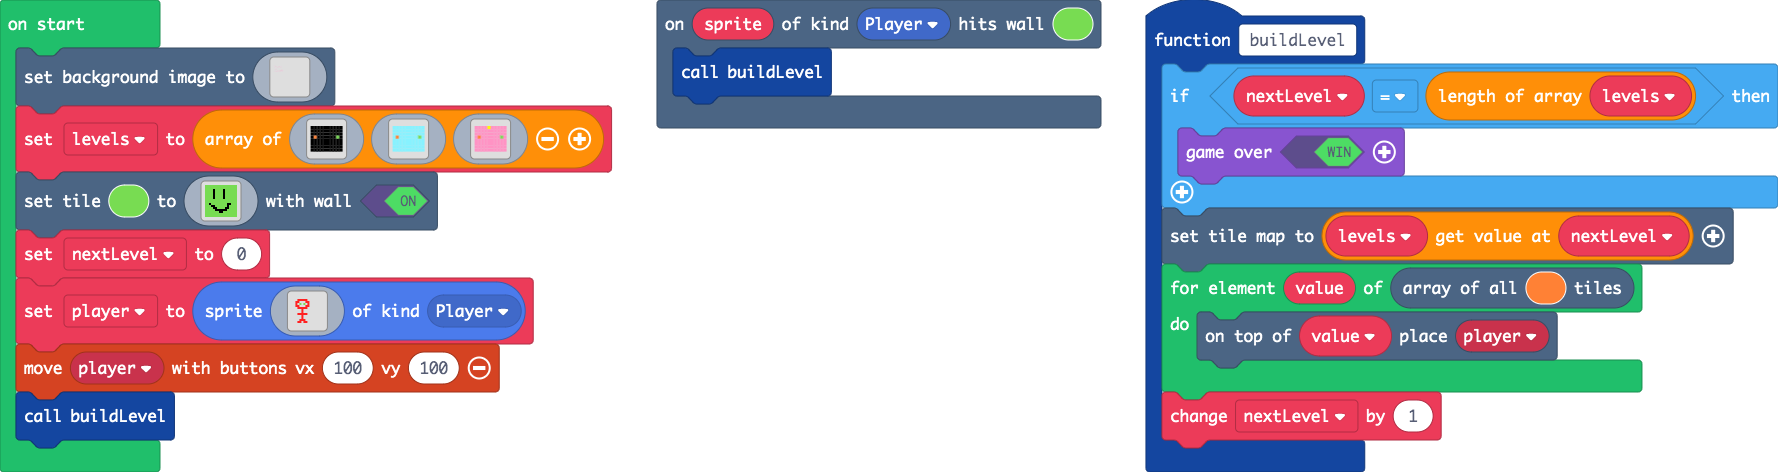
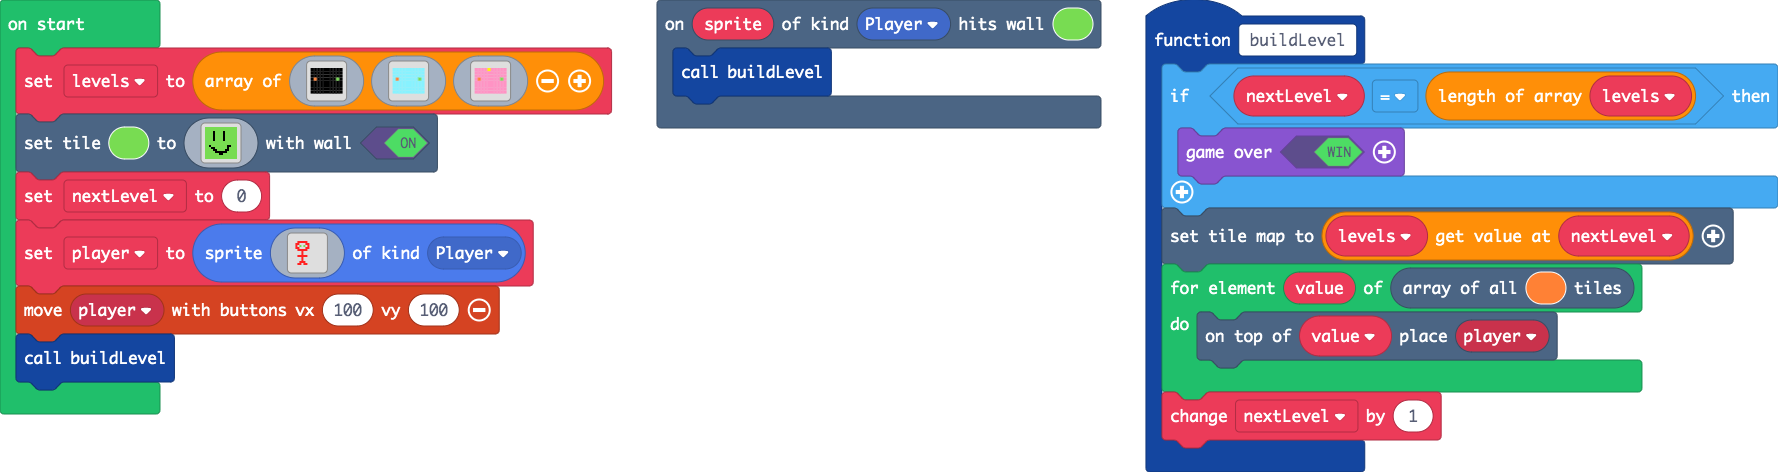
Update main.ts, main.blocks

Changed region(s): [[0.0, 0.089, 0.3712, 1.0]]

diff --git a/main.ts b/main.ts
@@ -14,128 +14,6 @@ scene.onHitTile(SpriteKind.Player, 7, function (sprite) {
 let player: Sprite = null
 let nextLevel = 0
 let levels: Image[] = []
-scene.setBackgroundImage(img`
-. . . . . . . . . . . . . . . . . . . . . . . . . . . . . . . . . . . . . . . . . . . . . . . . . . . . . . . . . . . . . . . . . . . . . . . . . . . . . . . . . . . . . . . . . . . . . . . . . . . . . . . . . . . . . . . . . . . . . . . . . . . . . . . . . . . . . . . . . . . . . . . . . . . . . . . . . . . . . . . . 
-. . . . . 3 3 . . . . . . . . . . . . . . . . . . . . . . . . . . . . . . . . . . . . . . . . . . . . . . . . . . . . . . . . . . . . . . . . . . . . . . . . . . . . . . . . . . . . . . . . . . . . . . . . . . . . . . . . . . . . . . . . . . . . . . . . . . . . . . . . . . . . . . . . . . . . . . . . . . . . . . . . . 
-. . . . 3 3 . . . . . . . . . . . . . . . . . . . . . . . . . . . . . . . . . . . . . . . . . . . . . . . . . . . . . . . . . . . . . . . . . . . . . . . . . . . . . . . . . . . . . . . . . . . . . . . . . . . . . . . . . . . . . . . . . . . . . . . . . . . . . . . . . . . . . . . . . . . . . . . . . . . . . . . . . . 
-. . . 3 3 . . . . . . . . . . . . . . . . . . . . . . . . . . . . . . . . . . . . . . . . . . . . . . . . . . . . . . . . . . . . . . . . . . . . . . . . . . . . . . . . . . . . . . . . . . . . . . . . . . . . . . . . . . . . . . . . . . . . . . . . . . . . . . . . . . . . . . . . . . . . . . . . . . . . . . . . . . . 
-. . 3 3 . . . . . . . . . . . . . . . . . . . . . . . . . . . . . . . 3 . . . . . . . . . . . . . . . . . . . . . . . . . . . . . . . . . . . . . . . . . . . . . . . . . . . . . . . . . . . . . . . . . . . . . . . . . . . . . . . . . . . . . . . . . . . . . . . . . . . . . . . . . . . . . . . . . . . . . . . . . . . . 
-. . . 3 3 3 . . 3 . . . . . 3 3 3 3 . . . . . . . 3 3 3 3 3 3 . . . 3 3 3 . . . . . . . . . . . . . . . . . . . . . . . . . . . . . . . . . . . . . . . . . . . . . . . . . . . . . . . . . . . . . . . . . . . . . . . . . . . . . . . . . . . . . . . . . . . . . . . . . . . . . . . . . . . . . . . . . . . . . . . . . . . 
-. . . . . 3 3 . 3 . . . . 3 3 . . . . . . . . . . 3 . . . . 3 . . . 3 . 3 . . . . . . . . . . . . . . . . . . . . . . . . . . . . . . . . . . . . . . . . . . . . . . . . . . . . . . . . . . . . . . . . . . . . . . . . . . . . . . . . . . . . . . . . . . . . . . . . . . . . . . . . . . . . . . . . . . . . . . . . . . . 
-. . . . . . 3 . 3 . . . . 3 . . . . . . . . 3 . . 3 . . . 3 . . . . 3 . 3 . . . . . . . . . . . . . . . . . . . . . . . . . . . . . . . . . . . . . . . . . . . . . . . . . . . . . . . . . . . . . . . . . . . . . . . . . . . . . . . . . . . . . . . . . . . . . . . . . . . . . . . . . . . . . . . . . . . . . . . . . . . 
-. . . . . . 3 . . 3 . . . 3 . . . . . . . . 3 . . 3 3 3 3 . . . . . 3 3 3 . . . . . . . . . . . . . . . . . . . . . . . . . . . . . . . . . . . . . . . . . . . . . . . . . . . . . . . . . . . . . . . . . . . . . . . . . . . . . . . . . . . . . . . . . . . . . . . . . . . . . . . . . . . . . . . . . . . . . . . . . . . 
-. . . . . 3 3 . . 3 . . . 3 3 . . . . . . . 3 . 3 3 3 3 3 . . . . . 3 . 3 . . . . . . . . . . . . . . . . . . . . . . . . . . . . . . . . . . . . . . . . . . . . . . . . . . . . . . . . . . . . . . . . . . . . . . . . . . . . . . . . . . . . . . . . . . . . . . . . . . . . . . . . . . . . . . . . . . . . . . . . . . . 
-. . . . 3 3 . . . 3 . . . . . 3 3 3 3 3 . . 3 . . 3 . . . 3 3 . . . 3 . 3 . . . . . . . . . . . . . . . . . . . . . . . . . . . . . . . . . . . . . . . . . . . . . . . . . . . . . . . . . . . . . . . . . . . . . . . . . . . . . . . . . . . . . . . . . . . . . . . . . . . . . . . . . . . . . . . . . . . . . . . . . . . 
-. 3 3 3 . . . . . 3 . . . . . . . . . 3 . . 3 . . 3 . . . . 3 3 . . 3 . 3 . . . . . . . . . . . . . . . . . . . . . . . . . . . . . . . . . . . . . . . . . . . . . . . . . . . . . . . . . . . . . . . . . . . . . . . . . . . . . . . . . . . . . . . . . . . . . . . . . . . . . . . . . . . . . . . . . . . . . . . . . . . 
-. . . . . . . . . 3 . . . . 3 3 3 3 3 . . . 3 . . 3 . . . . . 3 . . . . . 3 . . . . . . . . . . . . . . . . . . . . . . . . . . . . . . . . . . . . . . . . . . . . . . . . . . . . . . . . . . . . . . . . . . . . . . . . . . . . . . . . . . . . . . . . . . . . . . . . . . . . . . . . . . . . . . . . . . . . . . . . . . 
-. . . . . . . . . 3 . . . . 3 . . . . . . . . 3 . 3 . . . . . . 3 . . . . . . . . . . . . . . . . . . . . . . . . . . . . . . . . . . . . . . . . . . . . . . . . . . . . . . . . . . . . . . . . . . . . . . . . . . . . . . . . . . . . . . . . . . . . . . . . . . . . . . . . . . . . . . . . . . . . . . . . . . . . . . . 
-. . . . . . . . . . 3 . . . . . . . . . . . . 3 . . . . . . . . . . . . . . . . . . . . . . . . . . . . . . . . . . . . . . . . . . . . . . . . . . . . . . . . . . . . . . . . . . . . . . . . . . . . . . . . . . . . . . . . . . . . . . . . . . . . . . . . . . . . . . . . . . . . . . . . . . . . . . . . . . . . . . . . 
-. . . . . . . . . . 3 . . . . . . . . . . . . 3 . . . . . . . . . . . . . . . . . . . . . . . . . . . . . . . . . . . . . . . . . . . . . . . . . . . . . . . . . . . . . . . . . . . . . . . . . . . . . . . . . . . . . . . . . . . . . . . . . . . . . . . . . . . . . . . . . . . . . . . . . . . . . . . . . . . . . . . . 
-. . . . . . . . . . . . . . . . . . . . . . . . . . . . . . . . . . . . . . . . . . . . . . . . . . . . . . . . . . . . . . . . . . . . . . . . . . . . . . . . . . . . . . . . . . . . . . . . . . . . . . . . . . . . . . . . . . . . . . . . . . . . . . . . . . . . . . . . . . . . . . . . . . . . . . . . . . . . . . . . 
-. . . . . . . . . . . . . . . . . . . . . . . . . . . . . . . . . . . . . . . . . . . . . . . . . . . . . . . . . . . . . . . . . . . . . . . . . . . . . . . . . . . . . . . . . . . . . . . . . . . . . . . . . . . . . . . . . . . . . . . . . . . . . . . . . . . . . . . . . . . . . . . . . . . . . . . . . . . . . . . . 
-. . . . . 3 . . . 3 3 3 . . . . . . . . . . . . . . . . . . . . . . . . . . . . . . . . . . . . . . . . . . . . . . . . . . . . . . . . . . . . . . . . . . . . . . . . . . . . . . . . . . . . . . . . . . . . . . . . . . . . . . . . . . . . . . . . . . . . . . . . . . . . . . . . . . . . . . . . . . . . . . . . . . . . 
-. . . . . 3 . . . 3 . . . . . . . . . . . . . . . . . . . . . . . . . . . . . . . . . . . . . . . . . . . . . . . . . . . . . . . . . . . . . . . . . . . . . . . . . . . . . . . . . . . . . . . . . . . . . . . . . . . . . . . . . . . . . . . . . . . . . . . . . . . . . . . . . . . . . . . . . . . . . . . . . . . . . . 
-. . 4 . . 3 3 . . 3 3 3 3 . . . . . . . . . . . . . . . 7 . . . . . . . . . . . 3 . . . . . . . . . . . . . . . . . . . . . . . . . . . . . . . . . . . . . . . . . . . . . . . . . . . . . . . . . . . . . . . . . . . . . . . . . . . . . . . . . . . . . . . . . . . . . . . . . . . . . . . . . . . . . . . . . . . . . . . 
-. . . . . . 3 . . . . . 3 3 . . . . . . . . . . . . . . . . . . . . . . . . . . 3 3 . . . . . . . . . . . . . . . . . . . . . . . . . . . . . . . . . . . . . . . . . . . . . . . . . . . . . . . . . . . . . . . . . . . . . . . . . . . . . . . . . . . . . . . . . . . . . . . . . . . . . . . . . . . . . . . . . . . . . . 
-. . . . . . 3 . . . . . . 3 . . . . . . . . . . . . . . . . . . . . . . . . . 3 . 3 . . . . . . . . . . . . . . . . . . . . . . . . . . . . . . . . . . . . . . . . . . . . . . . . . . . . . . . . . . . . . . . . . . . . . . . . . . . . . . . . . . . . . . . . . . . . . . . . . . . . . . . . . . . . . . . . . . . . . . 
-. . . . . . 3 . . . . . . 3 . . . . . . . . . . . . . . . . . . . . . . 3 3 . 3 . 3 . . . . . . . . . . . . . . . . . . . . . . . . . . . . . . . . . . . . . . . . . . . . . . . . . . . . . . . . . . . . . . . . . . . . . . . . . . . . . . . . . . . . . . . . . . . . . . . . . . . . . . . . . . . . . . . . . . . . . . 
-. . . . . . . . . 3 3 3 3 3 . . . . . . . . . . . . . . . . . . . . . . 3 3 . 3 . 3 . . . . . . . . . . . . . . . . . . . . . . . . . . . . . . . . . . . . . . . . . . . . . . . . . . . . . . . . . . . . . . . . . . . . . . . . . . . . . . . . . . . . . . . . . . . . . . . . . . . . . . . . . . . . . . . . . . . . . . 
-. . . . . . . . . . . . . . . . . . . . . . . . . . . . . . . . . . . . 3 3 . 3 . 3 . . 3 3 3 3 . . . . . . . . . . . . . . . . . . . . . . . . . . . . . . . . . . . . . . . . . . . . . . . . . . . . . . . . . . . . . . . . . . . . . . . . . . . . . . . . . . . . . . . . . . . . . . . . . . . . . . . . . . . . . . . . 
-. . . . . . . . . . . . . . . . . . 3 . . . . . . . . . 3 3 3 3 . . . . 3 3 . 3 . 3 . 3 . . . . . . . . . . . . . . . . . . . . . . . . . . . . . . . . . . . . . . . . . . . . . . . . . . . . . . . . . . . . . . . . . . . . . . . . . . . . . . . . . . . . . . . . . . . . . . . . . . . . . . . . . . . . . . . . . . . . 
-. . . . . . . . . . . . . . . . . 3 3 . . . . . . . . . 3 . . . 3 3 3 . 3 . 3 3 . 3 . 3 . 3 3 . . . . . . . . . . . . . . . . . . . . . . . . . . . . . . . . . . . . . . . . . . . . . . . . . . . . . . . . . . . . . . . . . . . . . . . . . . . . . . . . . . . . . . . . . . . . . . . . . . . . . . . . . . . . . . . . . 
-. . . . 3 3 3 3 . . . . . . . . . 3 . 3 3 3 3 3 3 3 . 3 3 . . . 3 3 3 3 3 . 3 3 . 3 . 3 . . . . . . . . . . . . . . . . . . . . . . . . . . . . . . . . . . . . . . . . . . . . . . . . . . . . . . . . . . . . . . . . . . . . . . . . . . . . . . . . . . . . . . . . . . . . . . . . . . . . . . . . . . . . . . . . . . . . 
-. . . . 3 . . . 3 . . 3 . . . . 3 . . 3 . . . . . . . 3 3 . . . 3 3 3 3 3 . 3 3 . 3 . 3 3 3 3 . . . . . . . . . . . . . . . . . . . . . . . . . . . . . . . . . . . . . . . . . . . . . . . . . . . . . . . . . . . . . . . . . . . . . . . . . . . . . . . . . . . . . . . . . . . . . . . . . . . . . . . . . . . . . . . . . 
-. . . 3 3 3 3 3 3 3 . 3 . 3 3 . 3 . 3 . . 3 3 3 3 . . . . 3 3 3 . 3 . 3 3 . . . . 3 . . . . . . . . . . . . . . . . . . . . . . . . . . . . . . . . . . . . . . . . . . . . . . . . . . . . . . . . . . . . . . . . . . . . . . . . . . . . . . . . . . . . . . . . . . . . . . . . . . . . . . . . . . . . . . . . . . . . . . 
-. . . 3 . . . . . 3 . 3 . 3 3 3 . . 3 . . . . . . . . . . . 3 3 . . . 3 3 . . . . . 3 . . . . . . . . . . . . . . . . . . . . . . . . . . . . . . . . . . . . . . . . . . . . . . . . . . . . . . . . . . . . . . . . . . . . . . . . . . . . . . . . . . . . . . . . . . . . . . . . . . . . . . . . . . . . . . . . . . . . . 
-. . . 3 . . . . . 3 . 3 3 . 3 3 . 3 3 3 3 3 . . . . 3 3 3 3 . 3 . . . 3 3 . . . . . 3 . . . . . . . . . . . . . . . . . . . . . . . . . . . . . . . . . . . . . . . . . . . . . . . . . . . . . . . . . . . . . . . . . . . . . . . . . . . . . . . . . . . . . . . . . . . . . . . . . . . . . . . . . . . . . . . . . . . . . 
-. . . . . . . . . 3 . . 3 . . . . 3 . . . . . . . . . . . . . 3 . . 3 3 . . . . . . 3 3 . . . . . . . . . . . . . . . . . . . . . . . . . . . . . . . . . . . . . . . . . . . . . . . . . . . . . . . . . . . . . . . . . . . . . . . . . . . . . . . . . . . . . . . . . . . . . . . . . . . . . . . . . . . . . . . . . . . . 
-. . . . . . . . . 3 . . . . . . . . . . . . . . . . . . . . . 3 3 3 3 . . . . . . . . . . . . . . . . . . . . . . . . . . . . . . . . . . . . . . . . . . . . . . . . . . . . . . . . . . . . . . . . . . . . . . . . . . . . . . . . . . . . . . . . . . . . . . . . . . . . . . . . . . . . . . . . . . . . . . . . . . . . . 
-. . . . . . . . . . . . . . . . . . . . . . . . . . . . . . . . . . . . . . . . . . . . . . . . . . . . . . . . . . . . . . . . . . . . . . . . . . . . . . . . . . . . . . . . . . . . . . . . . . . . . . . . . . . . . . . . . . . . . . . . . . . . . . . . . . . . . . . . . . . . . . . . . . . . . . . . . . . . . . . . 
-. . . . . . . . . . . . . . . . . . . . . . . . . . . . . . . . . . . . . . . . . . . . . . . . . . . . . . . . . . . . . . . . . . . . . . . . . . . . . . . . . . . . . . . . . . . . . . . . . . . . . . . . . . . . . . . . . . . . . . . . . . . . . . . . . . . . . . . . . . . . . . . . . . . . . . . . . . . . . . . . 
-. . . . . . . . . . . . . . . . . . . . . . . . . . . . . . . . . . . . . . . . . . . . . . . . . . . . . . . . . . . . . . . . . . . . . . . . . . . . . . . . . . . . . . . . . . . . . . . . . . . . . . . . . . . . . . . . . . . . . . . . . . . . . . . . . . . . . . . . . . . . . . . . . . . . . . . . . . . . . . . . 
-. . . . . . . . . . . . . . . . . . . . . . . . . . . . . . . . . . . . . . . . . . . . . . . . . . . . . . . . . . . . . . . . . . . . . . . . . . . . . . . . . . . . . . . . . . . . . . . . . . . . . . . . . . . . . . . . . . . . . . . . . . . . . . . . . . . . . . . . . . . . . . . . . . . . . . . . . . . . . . . . 
-. . . . . . . . . . . . . . . . . . . . . . . . . . . . . . . . . . . . . . . . . . . . . . . . . . . . . . . . . . . . . . . . . . . . . . . . . . . . . . . . . . . . . . . . . . . . . . . . . . . . . . . . . . . . . . . . . . . . . . . . . . . . . . . . . . . . . . . . . . . . . . . . . . . . . . . . . . . . . . . . 
-. . . . . . . . . . . . . . . . . . . . . . . . . . . . . . . . . . . . . . . . . . . . . . . . . . . . . . . . . . . . . . . . . . . . . . . . . . . . . . . . . . . . . . . . . . . . . . . . . . . . . . . . . . . . . . . . . . . . . . . . . . . . . . . . . . . . . . . . . . . . . . . . . . . . . . . . . . . . . . . . 
-. . . . . . . . . . . . . . . . . . . . . . . . . . . . . . . . . . . . . . . . . . . . . . . . . . . . . . . . . . . . . . . . . . . . . . . . . . . . . . . . . . . . . . . . . . . . . . . . . . . . . . . . . . . . . . . . . . . . . . . . . . . . . . . . . . . . . . . . . . . . . . . . . . . . . . . . . . . . . . . . 
-. . . . . . . . . . . . . . . . . . . . . . . . . . . . . . . . . . . . . . . . . . . . . . . . . . . . . . . . . . . . . . . . . . . . . . . . . . . . . . . . . . . . . . . . . . . . . . . . . . . . . . . . . . . . . . . . . . . . . . . . . . . . . . . . . . . . . . . . . . . . . . . . . . . . . . . . . . . . . . . . 
-. . . . . . . . . . . . . . . . . . . . . . . . . . . . . . . . . . . . . . . . . . . . . . . . . . . . . . . . . . . . . . . . . . . . . . . . . . . . . . . . . . . . . . . . . . . . . . . . . . . . . . . . . . . . . . . . . . . . . . . . . . . . . . . . . . . . . . . . . . . . . . . . . . . . . . . . . . . . . . . . 
-. . . . . . . . . . . . . . . . . . . . . . . . . . . . . . . . . . . . . . . . . . . . . . . . . . . . . . . . . . . . . . . . . . . . . . . . . . . . . . . . . . . . . . . . . . . . . . . . . . . . . . . . . . . . . . . . . . . . . . . . . . . . . . . . . . . . . . . . . . . . . . . . . . . . . . . . . . . . . . . . 
-. . . . . . . . . . . . . . . . . . . . . . . . . . . . . . . . . . . . . . . . . . . . . . . . . . . . . . . . . . . . . . . . . . . . . . . . . . . . . . . . . . . . . . . . . . . . . . . . . . . . . . . . . . . . . . . . . . . . . . . . . . . . . . . . . . . . . . . . . . . . . . . . . . . . . . . . . . . . . . . . 
-. . . . . . . . . . . . . . . . . . . . . . . . . . . . . . . . . . . . . . . . . . . . . . . . . . . . . . . . . . . . . . . . . . . . . . . . . . . . . . . . . . . . . . . . . . . . . . . . . . . . . . . . . . . . . . . . . . . . . . . . . . . . . . . . . . . . . . . . . . . . . . . . . . . . . . . . . . . . . . . . 
-. . . . . . . . . . . . . . . . . . . . . . . . . . . . . . . . . . . . . . . . . . . . . . . . . . . . . . . . . . . . . . . . . . . . . . . . . . . . . . . . . . . . . . . . . . . . . . . . . . . . . . . . . . . . . . . . . . . . . . . . . . . . . . . . . . . . . . . . . . . . . . . . . . . . . . . . . . . . . . . . 
-. . . . . . . . . . . . . . . . . . . . . . . . . . . . . . . . . . . . . . . . . . . . . . . . . . . . . . . . . . . . . . . . . . . . . . . . . . . . . . . . . . . . . . . . . . . . . . . . . . . . . . . . . . . . . . . . . . . . . . . . . . . . . . . . . . . . . . . . . . . . . . . . . . . . . . . . . . . . . . . . 
-. . . . . . . . . . . . . . . . . . . . . . . . . . . . . . . . . . . . . . . . . . . . . . . . . . . . . . . . . . . . . . . . . . . . . . . . . . . . . . . . . . . . . . . . . . . . . . . . . . . . . . . . . . . . . . . . . . . . . . . . . . . . . . . . . . . . . . . . . . . . . . . . . . . . . . . . . . . . . . . . 
-. . . . . . . . . . . . . . . . . . . . . . . . . . . . . . . . . . . . . . . . . . . . . . . . . . . . . . . . . . . . . . . . . . . . . . . . . . . . . . . . . . . . . . . . . . . . . . . . . . . . . . . . . . . . . . . . . . . . . . . . . . . . . . . . . . . . . . . . . . . . . . . . . . . . . . . . . . . . . . . . 
-. . . . . . . . . . . . . . . . . . . . . . . . . . . . . . . . . . . . . . . . . . . . . . . . . . . . . . . . . . . . . . . . . . . . . . . . . . . . . . . . . . . . . . . . . . . . . . . . . . . . . . . . . . . . . . . . . . . . . . . . . . . . . . . . . . . . . . . . . . . . . . . . . . . . . . . . . . . . . . . . 
-. . . . . . . . . . . . . . . . . . . . . . . . . . . . . . . . . . . . . . . . . . . . . . . . . . . . . . . . . . . . . . . . . . . . . . . . . . . . . . . . . . . . . . . . . . . . . . . . . . . . . . . . . . . . . . . . . . . . . . . . . . . . . . . . . . . . . . . . . . . . . . . . . . . . . . . . . . . . . . . . 
-. . . . . . . . . . . . . . . . . . . . . . . . . . . . . . . . . . . . . . . . . . . . . . . . . . . . . . . . . . . . . . . . . . . . . . . . . . . . . . . . . . . . . . . . . . . . . . . . . . . . . . . . . . . . . . . . . . . . . . . . . . . . . . . . . . . . . . . . . . . . . . . . . . . . . . . . . . . . . . . . 
-. . . . . . . . . . . . . . . . . . . . . . . . . . . . . . . . . . . . . . . . . . . . . . . . . . . . . . . . . . . . . . . . . . . . . . . . . . . . . . . . . . . . . . . . . . . . . . . . . . . . . . . . . . . . . . . . . . . . . . . . . . . . . . . . . . . . . . . . . . . . . . . . . . . . . . . . . . . . . . . . 
-. . . . . . . . . . . . . . . . . . . . . . . . . . . . . . . . . . . . . . . . . . . . . . . . . . . . . . . . . . . . . . . . . . . . . . . . . . . . . . . . . . . . . . . . . . . . . . . . . . . . . . . . . . . . . . . . . . . . . . . . . . . . . . . . . . . . . . . . . . . . . . . . . . . . . . . . . . . . . . . . 
-. . . . . . . . . . . . . . . . . . . . . . . . . . . . . . . . . . . . . . . . . . . . . . . . . . . . . . . . . . . . . . . . . . . . . . . . . . . . . . . . . . . . . . . . . . . . . . . . . . . . . . . . . . . . . . . . . . . . . . . . . . . . . . . . . . . . . . . . . . . . . . . . . . . . . . . . . . . . . . . . 
-. . . . . . . . . . . . . . . . . . . . . . . . . . . . . . . . . . . . . . . . . . . . . . . . . . . . . . . . . . . . . . . . . . . . . . . . . . . . . . . . . . . . . . . . . . . . . . . . . . . . . . . . . . . . . . . . . . . . . . . . . . . . . . . . . . . . . . . . . . . . . . . . . . . . . . . . . . . . . . . . 
-. . . . . . . . . . . . . . . . . . . . . . . . . . . . . . . . . . . . . . . . . . . . . . . . . . . . . . . . . . . . . . . . . . . . . . . . . . . . . . . . . . . . . . . . . . . . . . . . . . . . . . . . . . . . . . . . . . . . . . . . . . . . . . . . . . . . . . . . . . . . . . . . . . . . . . . . . . . . . . . . 
-. . . . . . . . . . . . . . . . . . . . . . . . . . . . . . . . . . . . . . . . . . . . . . . . . . . . . . . . . . . . . . . . . . . . . . . . . . . . . . . . . . . . . . . . . . . . . . . . . . . . . . . . . . . . . . . . . . . . . . . . . . . . . . . . . . . . . . . . . . . . . . . . . . . . . . . . . . . . . . . . 
-. . . . . . . . . . . . . . . . . . . . . . . . . . . . . . . . . . . . . . . . . . . . . . . . . . . . . . . . . . . . . . . . . . . . . . . . . . . . . . . . . . . . . . . . . . . . . . . . . . . . . . . . . . . . . . . . . . . . . . . . . . . . . . . . . . . . . . . . . . . . . . . . . . . . . . . . . . . . . . . . 
-. . . . . . . . . . . . . . . . . . . . . . . . . . . . . . . . . . . . . . . . . . . . . . . . . . . . . . . . . . . . . . . . . . . . . . . . . . . . . . . . . . . . . . . . . . . . . . . . . . . . . . . . . . . . . . . . . . . . . . . . . . . . . . . . . . . . . . . . . . . . . . . . . . . . . . . . . . . . . . . . 
-. . . . . . . . . . . . . . . . . . . . . . . . . . . . . . . . . . . . . . . . . . . . . . . . . . . . . . . . . . . . . . . . . . . . . . . . . . . . . . . . . . . . . . . . . . . . . . . . . . . . . . . . . . . . . . . . . . . . . . . . . . . . . . . . . . . . . . . . . . . . . . . . . . . . . . . . . . . . . . . . 
-. . . . . . . . . . . . . . . . . . . . . . . . . . . . . . . . . . . . . . . . . . . . . . . . . . . . . . . . . . . . . . . . . . . . . . . . . . . . . . . . . . . . . . . . . . . . . . . . . . . . . . . . . . . . . . . . . . . . . . . . . . . . . . . . . . . . . . . . . . . . . . . . . . . . . . . . . . . . . . . . 
-. . . . . . . . . . . . . . . . . . . . . . . . . . . . . . . . . . . . . . . . . . . . . . . . . . . . . . . . . . . . . . . . . . . . . . . . . . . . . . . . . . . . . . . . . . . . . . . . . . . . . . . . . . . . . . . . . . . . . . . . . . . . . . . . . . . . . . . . . . . . . . . . . . . . . . . . . . . . . . . . 
-. . . . . . . . . . . . . . . . . . . . . . . . . . . . . . . . . . . . . . . . . . . . . . . . . . . . . . . . . . . . . . . . . . . . . . . . . . . . . . . . . . . . . . . . . . . . . . . . . . . . . . . . . . . . . . . . . . . . . . . . . . . . . . . . . . . . . . . . . . . . . . . . . . . . . . . . . . . . . . . . 
-. . . . . . . . . . . . . . . . . . . . . . . . . . . . . . . . . . . . . . . . . . . . . . . . . . . . . . . . . . . . . . . . . . . . . . . . . . . . . . . . . . . . . . . . . . . . . . . . . . . . . . . . . . . . . . . . . . . . . . . . . . . . . . . . . . . . . . . . . . . . . . . . . . . . . . . . . . . . . . . . 
-. . . . . . . . . . . . . . . . . . . . . . . . . . . . . . . . . . . . . . . . . . . . . . . . . . . . . . . . . . . . . . . . . . . . . . . . . . . . . . . . . . . . . . . . . . . . . . . . . . . . . . . . . . . . . . . . . . . . . . . . . . . . . . . . . . . . . . . . . . . . . . . . . . . . . . . . . . . . . . . . 
-. . . . . . . . . . . . . . . . . . . . . . . . . . . . . . . . . . . . . . . . . . . . . . . . . . . . . . . . . . . . . . . . . . . . . . . . . . . . . . . . . . . . . . . . . . . . . . . . . . . . . . . . . . . . . . . . . . . . . . . . . . . . . . . . . . . . . . . . . . . . . . . . . . . . . . . . . . . . . . . . 
-. . . . . . . . . . . . . . . . . . . . . . . . . . . . . . . . . . . . . . . . . . . . . . . . . . . . . . . . . . . . . . . . . . . . . . . . . . . . . . . . . . . . . . . . . . . . . . . . . . . . . . . . . . . . . . . . . . . . . . . . . . . . . . . . . . . . . . . . . . . . . . . . . . . . . . . . . . . . . . . . 
-. . . . . . . . . . . . . . . . . . . . . . . . . . . . . . . . . . . . . . . . . . . . . . . . . . . . . . . . . . . . . . . . . . . . . . . . . . . . . . . . . . . . . . . . . . . . . . . . . . . . . . . . . . . . . . . . . . . . . . . . . . . . . . . . . . . . . . . . . . . . . . . . . . . . . . . . . . . . . . . . 
-. . . . . . . . . . . . . . . . . . . . . . . . . . . . . . . . . . . . . . . . . . . . . . . . . . . . . . . . . . . . . . . . . . . . . . . . . . . . . . . . . . . . . . . . . . . . . . . . . . . . . . . . . . . . . . . . . . . . . . . . . . . . . . . . . . . . . . . . . . . . . . . . . . . . . . . . . . . . . . . . 
-. . . . . . . . . . . . . . . . . . . . . . . . . . . . . . . . . . . . . . . . . . . . . . . . . . . . . . . . . . . . . . . . . . . . . . . . . . . . . . . . . . . . . . . . . . . . . . . . . . . . . . . . . . . . . . . . . . . . . . . . . . . . . . . . . . . . . . . . . . . . . . . . . . . . . . . . . . . . . . . . 
-. . . . . . . . . . . . . . . . . . . . . . . . . . . . . . . . . . . . . . . . . . . . . . . . . . . . . . . . . . . . . . . . . . . . . . . . . . . . . . . . . . . . . . . . . . . . . . . . . . . . . . . . . . . . . . . . . . . . . . . . . . . . . . . . . . . . . . . . . . . . . . . . . . . . . . . . . . . . . . . . 
-. . . . . . . . . . . . . . . . . . . . . . . . . . . . . . . . . . . . . . . . . . . . . . . . . . . . . . . . . . . . . . . . . . . . . . . . . . . . . . . . . . . . . . . . . . . . . . . . . . . . . . . . . . . . . . . . . . . . . . . . . . . . . . . . . . . . . . . . . . . . . . . . . . . . . . . . . . . . . . . . 
-. . . . . . . . . . . . . . . . . . . . . . . . . . . . . . . . . . . . . . . . . . . . . . . . . . . . . . . . . . . . . . . . . . . . . . . . . . . . . . . . . . . . . . . . . . . . . . . . . . . . . . . . . . . . . . . . . . . . . . . . . . . . . . . . . . . . . . . . . . . . . . . . . . . . . . . . . . . . . . . . 
-. . . . . . . . . . . . . . . . . . . . . . . . . . . . . . . . . . . . . . . . . . . . . . . . . . . . . . . . . . . . . . . . . . . . . . . . . . . . . . . . . . . . . . . . . . . . . . . . . . . . . . . . . . . . . . . . . . . . . . . . . . . . . . . . . . . . . . . . . . . . . . . . . . . . . . . . . . . . . . . . 
-. . . . . . . . . . . . . . . . . . . . . . . . . . . . . . . . . . . . . . . . . . . . . . . . . . . . . . . . . . . . . . . . . . . . . . . . . . . . . . . . . . . . . . . . . . . . . . . . . . . . . . . . . . . . . . . . . . . . . . . . . . . . . . . . . . . . . . . . . . . . . . . . . . . . . . . . . . . . . . . . 
-. . . . . . . . . . . . . . . . . . . . . . . . . . . . . . . . . . . . . . . . . . . . . . . . . . . . . . . . . . . . . . . . . . . . . . . . . . . . . . . . . . . . . . . . . . . . . . . . . . . . . . . . . . . . . . . . . . . . . . . . . . . . . . . . . . . . . . . . . . . . . . . . . . . . . . . . . . . . . . . . 
-. . . . . . . . . . . . . . . . . . . . . . . . . . . . . . . . . . . . . . . . . . . . . . . . . . . . . . . . . . . . . . . . . . . . . . . . . . . . . . . . . . . . . . . . . . . . . . . . . . . . . . . . . . . . . . . . . . . . . . . . . . . . . . . . . . . . . . . . . . . . . . . . . . . . . . . . . . . . . . . . 
-. . . . . . . . . . . . . . . . . . . . . . . . . . . . . . . . . . . . . . . . . . . . . . . . . . . . . . . . . . . . . . . . . . . . . . . . . . . . . . . . . . . . . . . . . . . . . . . . . . . . . . . . . . . . . . . . . . . . . . . . . . . . . . . . . . . . . . . . . . . . . . . . . . . . . . . . . . . . . . . . 
-. . . . . . . . . . . . . . . . . . . . . . . . . . . . . . . . . . . . . . . . . . . . . . . . . . . . . . . . . . . . . . . . . . . . . . . . . . . . . . . . . . . . . . . . . . . . . . . . . . . . . . . . . . . . . . . . . . . . . . . . . . . . . . . . . . . . . . . . . . . . . . . . . . . . . . . . . . . . . . . . 
-. . . . . . . . . . . . . . . . . . . . . . . . . . . . . . . . . . . . . . . . . . . . . . . . . . . . . . . . . . . . . . . . . . . . . . . . . . . . . . . . . . . . . . . . . . . . . . . . . . . . . . . . . . . . . . . . . . . . . . . . . . . . . . . . . . . . . . . . . . . . . . . . . . . . . . . . . . . . . . . . 
-. . . . . . . . . . . . . . . . . . . . . . . . . . . . . . . . . . . . . . . . . . . . . . . . . . . . . . . . . . . . . . . . . . . . . . . . . . . . . . . . . . . . . . . . . . . . . . . . . . . . . . . . . . . . . . . . . . . . . . . . . . . . . . . . . . . . . . . . . . . . . . . . . . . . . . . . . . . . . . . . 
-. . . . . . . . . . . . . . . . . . . . . . . . . . . . . . . . . . . . . . . . . . . . . . . . . . . . . . . . . . . . . . . . . . . . . . . . . . . . . . . . . . . . . . . . . . . . . . . . . . . . . . . . . . . . . . . . . . . . . . . . . . . . . . . . . . . . . . . . . . . . . . . . . . . . . . . . . . . . . . . . 
-. . . . . . . . . . . . . . . . . . . . . . . . . . . . . . . . . . . . . . . . . . . . . . . . . . . . . . . . . . . . . . . . . . . . . . . . . . . . . . . . . . . . . . . . . . . . . . . . . . . . . . . . . . . . . . . . . . . . . . . . . . . . . . . . . . . . . . . . . . . . . . . . . . . . . . . . . . . . . . . . 
-. . . . . . . . . . . . . . . . . . . . . . . . . . . . . . . . . . . . . . . . . . . . . . . . . . . . . . . . . . . . . . . . . . . . . . . . . . . . . . . . . . . . . . . . . . . . . . . . . . . . . . . . . . . . . . . . . . . . . . . . . . . . . . . . . . . . . . . . . . . . . . . . . . . . . . . . . . . . . . . . 
-. . . . . . . . . . . . . . . . . . . . . . . . . . . . . . . . . . . . . . . . . . . . . . . . . . . . . . . . . . . . . . . . . . . . . . . . . . . . . . . . . . . . . . . . . . . . . . . . . . . . . . . . . . . . . . . . . . . . . . . . . . . . . . . . . . . . . . . . . . . . . . . . . . . . . . . . . . . . . . . . 
-. . . . . . . . . . . . . . . . . . . . . . . . . . . . . . . . . . . . . . . . . . . . . . . . . . . . . . . . . . . . . . . . . . . . . . . . . . . . . . . . . . . . . . . . . . . . . . . . . . . . . . . . . . . . . . . . . . . . . . . . . . . . . . . . . . . . . . . . . . . . . . . . . . . . . . . . . . . . . . . . 
-. . . . . . . . . . . . . . . . . . . . . . . . . . . . . . . . . . . . . . . . . . . . . . . . . . . . . . . . . . . . . . . . . . . . . . . . . . . . . . . . . . . . . . . . . . . . . . . . . . . . . . . . . . . . . . . . . . . . . . . . . . . . . . . . . . . . . . . . . . . . . . . . . . . . . . . . . . . . . . . . 
-. . . . . . . . . . . . . . . . . . . . . . . . . . . . . . . . . . . . . . . . . . . . . . . . . . . . . . . . . . . . . . . . . . . . . . . . . . . . . . . . . . . . . . . . . . . . . . . . . . . . . . . . . . . . . . . . . . . . . . . . . . . . . . . . . . . . . . . . . . . . . . . . . . . . . . . . . . . . . . . . 
-. . . . . . . . . . . . . . . . . . . . . . . . . . . . . . . . . . . . . . . . . . . . . . . . . . . . . . . . . . . . . . . . . . . . . . . . . . . . . . . . . . . . . . . . . . . . . . . . . . . . . . . . . . . . . . . . . . . . . . . . . . . . . . . . . . . . . . . . . . . . . . . . . . . . . . . . . . . . . . . . 
-. . . . . . . . . . . . . . . . . . . . . . . . . . . . . . . . . . . . . . . . . . . . . . . . . . . . . . . . . . . . . . . . . . . . . . . . . . . . . . . . . . . . . . . . . . . . . . . . . . . . . . . . . . . . . . . . . . . . . . . . . . . . . . . . . . . . . . . . . . . . . . . . . . . . . . . . . . . . . . . . 
-. . . . . . . . . . . . . . . . . . . . . . . . . . . . . . . . . . . . . . . . . . . . . . . . . . . . . . . . . . . . . . . . . . . . . . . . . . . . . . . . . . . . . . . . . . . . . . . . . . . . . . . . . . . . . . . . . . . . . . . . . . . . . . . . . . . . . . . . . . . . . . . . . . . . . . . . . . . . . . . . 
-. . . . . . . . . . . . . . . . . . . . . . . . . . . . . . . . . . . . . . . . . . . . . . . . . . . . . . . . . . . . . . . . . . . . . . . . . . . . . . . . . . . . . . . . . . . . . . . . . . . . . . . . . . . . . . . . . . . . . . . . . . . . . . . . . . . . . . . . . . . . . . . . . . . . . . . . . . . . . . . . 
-. . . . . . . . . . . . . . . . . . . . . . . . . . . . . . . . . . . . . . . . . . . . . . . . . . . . . . . . . . . . . . . . . . . . . . . . . . . . . . . . . . . . . . . . . . . . . . . . . . . . . . . . . . . . . . . . . . . . . . . . . . . . . . . . . . . . . . . . . . . . . . . . . . . . . . . . . . . . . . . . 
-. . . . . . . . . . . . . . . . . . . . . . . . . . . . . . . . . . . . . . . . . . . . . . . . . . . . . . . . . . . . . . . . . . . . . . . . . . . . . . . . . . . . . . . . . . . . . . . . . . . . . . . . . . . . . . . . . . . . . . . . . . . . . . . . . . . . . . . . . . . . . . . . . . . . . . . . . . . . . . . . 
-. . . . . . . . . . . . . . . . . . . . . . . . . . . . . . . . . . . . . . . . . . . . . . . . . . . . . . . . . . . . . . . . . . . . . . . . . . . . . . . . . . . . . . . . . . . . . . . . . . . . . . . . . . . . . . . . . . . . . . . . . . . . . . . . . . . . . . . . . . . . . . . . . . . . . . . . . . . . . . . . 
-. . . . . . . . . . . . . . . . . . . . . . . . . . . . . . . . . . . . . . . . . . . . . . . . . . . . . . . . . . . . . . . . . . . . . . . . . . . . . . . . . . . . . . . . . . . . . . . . . . . . . . . . . . . . . . . . . . . . . . . . . . . . . . . . . . . . . . . . . . . . . . . . . . . . . . . . . . . . . . . . 
-. . . . . . . . . . . . . . . . . . . . . . . . . . . . . . . . . . . . . . . . . . . . . . . . . . . . . . . . . . . . . . . . . . . . . . . . . . . . . . . . . . . . . . . . . . . . . . . . . . . . . . . . . . . . . . . . . . . . . . . . . . . . . . . . . . . . . . . . . . . . . . . . . . . . . . . . . . . . . . . . 
-. . . . . . . . . . . . . . . . . . . . . . . . . . . . . . . . . . . . . . . . . . . . . . . . . . . . . . . . . . . . . . . . . . . . . . . . . . . . . . . . . . . . . . . . . . . . . . . . . . . . . . . . . . . . . . . . . . . . . . . . . . . . . . . . . . . . . . . . . . . . . . . . . . . . . . . . . . . . . . . . 
-. . . . . . . . . . . . . . . . . . . . . . . . . . . . . . . . . . . . . . . . . . . . . . . . . . . . . . . . . . . . . . . . . . . . . . . . . . . . . . . . . . . . . . . . . . . . . . . . . . . . . . . . . . . . . . . . . . . . . . . . . . . . . . . . . . . . . . . . . . . . . . . . . . . . . . . . . . . . . . . . 
-. . . . . . . . . . . . . . . . . . . . . . . . . . . . . . . . . . . . . . . . . . . . . . . . . . . . . . . . . . . . . . . . . . . . . . . . . . . . . . . . . . . . . . . . . . . . . . . . . . . . . . . . . . . . . . . . . . . . . . . . . . . . . . . . . . . . . . . . . . . . . . . . . . . . . . . . . . . . . . . . 
-. . . . . . . . . . . . . . . . . . . . . . . . . . . . . . . . . . . . . . . . . . . . . . . . . . . . . . . . . . . . . . . . . . . . . . . . . . . . . . . . . . . . . . . . . . . . . . . . . . . . . . . . . . . . . . . . . . . . . . . . . . . . . . . . . . . . . . . . . . . . . . . . . . . . . . . . . . . . . . . . 
-. . . . . . . . . . . . . . . . . . . . . . . . . . . . . . . . . . . . . . . . . . . . . . . . . . . . . . . . . . . . . . . . . . . . . . . . . . . . . . . . . . . . . . . . . . . . . . . . . . . . . . . . . . . . . . . . . . . . . . . . . . . . . . . . . . . . . . . . . . . . . . . . . . . . . . . . . . . . . . . . 
-. . . . . . . . . . . . . . . . . . . . . . . . . . . . . . . . . . . . . . . . . . . . . . . . . . . . . . . . . . . . . . . . . . . . . . . . . . . . . . . . . . . . . . . . . . . . . . . . . . . . . . . . . . . . . . . . . . . . . . . . . . . . . . . . . . . . . . . . . . . . . . . . . . . . . . . . . . . . . . . . 
-. . . . . . . . . . . . . . . . . . . . . . . . . . . . . . . . . . . . . . . . . . . . . . . . . . . . . . . . . . . . . . . . . . . . . . . . . . . . . . . . . . . . . . . . . . . . . . . . . . . . . . . . . . . . . . . . . . . . . . . . . . . . . . . . . . . . . . . . . . . . . . . . . . . . . . . . . . . . . . . . 
-. . . . . . . . . . . . . . . . . . . . . . . . . . . . . . . . . . . . . . . . . . . . . . . . . . . . . . . . . . . . . . . . . . . . . . . . . . . . . . . . . . . . . . . . . . . . . . . . . . . . . . . . . . . . . . . . . . . . . . . . . . . . . . . . . . . . . . . . . . . . . . . . . . . . . . . . . . . . . . . . 
-. . . . . . . . . . . . . . . . . . . . . . . . . . . . . . . . . . . . . . . . . . . . . . . . . . . . . . . . . . . . . . . . . . . . . . . . . . . . . . . . . . . . . . . . . . . . . . . . . . . . . . . . . . . . . . . . . . . . . . . . . . . . . . . . . . . . . . . . . . . . . . . . . . . . . . . . . . . . . . . . 
-. . . . . . . . . . . . . . . . . . . . . . . . . . . . . . . . . . . . . . . . . . . . . . . . . . . . . . . . . . . . . . . . . . . . . . . . . . . . . . . . . . . . . . . . . . . . . . . . . . . . . . . . . . . . . . . . . . . . . . . . . . . . . . . . . . . . . . . . . . . . . . . . . . . . . . . . . . . . . . . . 
-. . . . . . . . . . . . . . . . . . . . . . . . . . . . . . . . . . . . . . . . . . . . . . . . . . . . . . . . . . . . . . . . . . . . . . . . . . . . . . . . . . . . . . . . . . . . . . . . . . . . . . . . . . . . . . . . . . . . . . . . . . . . . . . . . . . . . . . . . . . . . . . . . . . . . . . . . . . . . . . . 
-. . . . . . . . . . . . . . . . . . . . . . . . . . . . . . . . . . . . . . . . . . . . . . . . . . . . . . . . . . . . . . . . . . . . . . . . . . . . . . . . . . . . . . . . . . . . . . . . . . . . . . . . . . . . . . . . . . . . . . . . . . . . . . . . . . . . . . . . . . . . . . . . . . . . . . . . . . . . . . . . 
-. . . . . . . . . . . . . . . . . . . . . . . . . . . . . . . . . . . . . . . . . . . . . . . . . . . . . . . . . . . . . . . . . . . . . . . . . . . . . . . . . . . . . . . . . . . . . . . . . . . . . . . . . . . . . . . . . . . . . . . . . . . . . . . . . . . . . . . . . . . . . . . . . . . . . . . . . . . . . . . . 
-. . . . . . . . . . . . . . . . . . . . . . . . . . . . . . . . . . . . . . . . . . . . . . . . . . . . . . . . . . . . . . . . . . . . . . . . . . . . . . . . . . . . . . . . . . . . . . . . . . . . . . . . . . . . . . . . . . . . . . . . . . . . . . . . . . . . . . . . . . . . . . . . . . . . . . . . . . . . . . . . 
-. . . . . . . . . . . . . . . . . . . . . . . . . . . . . . . . . . . . . . . . . . . . . . . . . . . . . . . . . . . . . . . . . . . . . . . . . . . . . . . . . . . . . . . . . . . . . . . . . . . . . . . . . . . . . . . . . . . . . . . . . . . . . . . . . . . . . . . . . . . . . . . . . . . . . . . . . . . . . . . . 
-. . . . . . . . . . . . . . . . . . . . . . . . . . . . . . . . . . . . . . . . . . . . . . . . . . . . . . . . . . . . . . . . . . . . . . . . . . . . . . . . . . . . . . . . . . . . . . . . . . . . . . . . . . . . . . . . . . . . . . . . . . . . . . . . . . . . . . . . . . . . . . . . . . . . . . . . . . . . . . . . 
-. . . . . . . . . . . . . . . . . . . . . . . . . . . . . . . . . . . . . . . . . . . . . . . . . . . . . . . . . . . . . . . . . . . . . . . . . . . . . . . . . . . . . . . . . . . . . . . . . . . . . . . . . . . . . . . . . . . . . . . . . . . . . . . . . . . . . . . . . . . . . . . . . . . . . . . . . . . . . . . . 
-. . . . . . . . . . . . . . . . . . . . . . . . . . . . . . . . . . . . . . . . . . . . . . . . . . . . . . . . . . . . . . . . . . . . . . . . . . . . . . . . . . . . . . . . . . . . . . . . . . . . . . . . . . . . . . . . . . . . . . . . . . . . . . . . . . . . . . . . . . . . . . . . . . . . . . . . . . . . . . . . 
-. . . . . . . . . . . . . . . . . . . . . . . . . . . . . . . . . . . . . . . . . . . . . . . . . . . . . . . . . . . . . . . . . . . . . . . . . . . . . . . . . . . . . . . . . . . . . . . . . . . . . . . . . . . . . . . . . . . . . . . . . . . . . . . . . . . . . . . . . . . . . . . . . . . . . . . . . . . . . . . . 
-. . . . . . . . . . . . . . . . . . . . . . . . . . . . . . . . . . . . . . . . . . . . . . . . . . . . . . . . . . . . . . . . . . . . . . . . . . . . . . . . . . . . . . . . . . . . . . . . . . . . . . . . . . . . . . . . . . . . . . . . . . . . . . . . . . . . . . . . . . . . . . . . . . . . . . . . . . . . . . . . 
-`)
 levels = [img`
 f f f f f f f f f f 
 f f f f f f f f f f 
